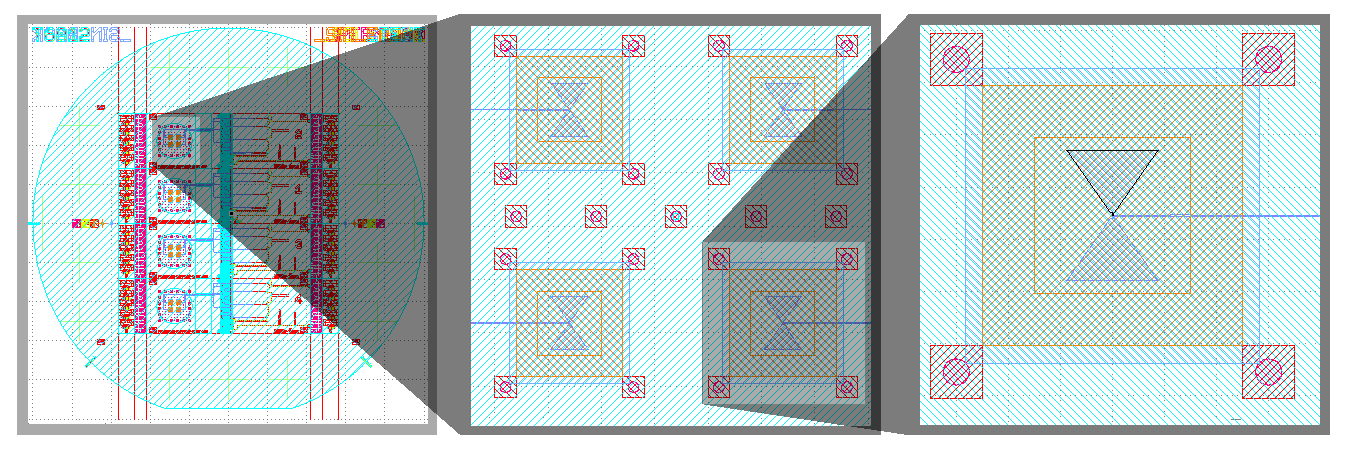
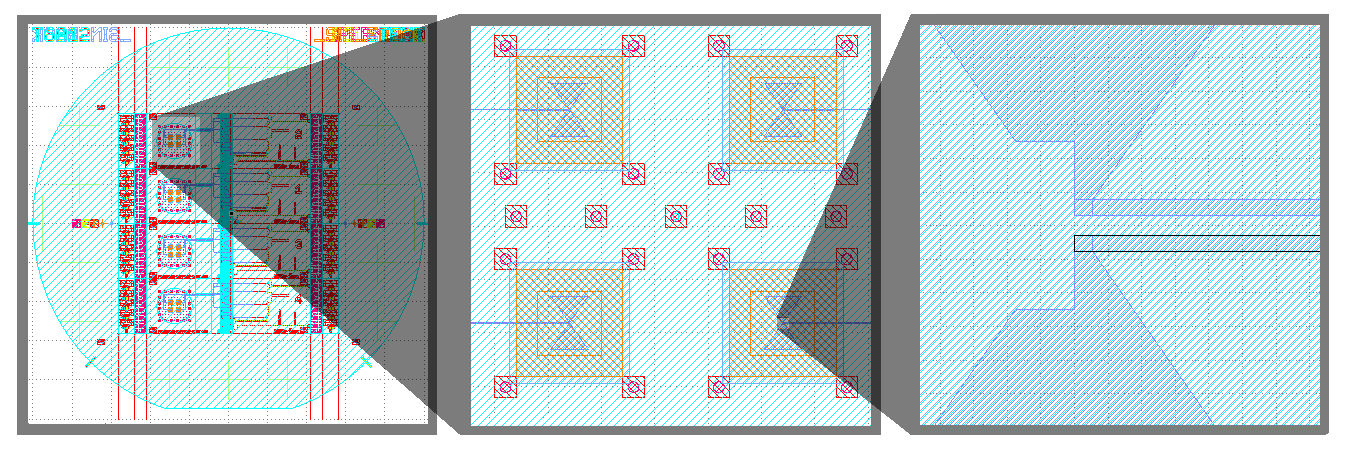
misc paper improvements

Changed region(s): [[0.4978, 0.0311, 0.9956, 0.9644], [0.0, 0.0311, 0.3422, 0.9644]]

diff --git a/paper/paper.md b/paper/paper.md
@@ -48,7 +48,9 @@ bibliography: paper.bib
 \newcommand{\proxy}{\texttt{proxy}}
 \newcommand{\tifuun}{TIFUUN}
 
+<!--
 \Huge THIS IS A VERY EARLY DRAFT IM JUST WRITING WHAT POPS INTO MY HEAD \normalsize
+-->
 
 <!-- REQUIRED SECTION!! -->
 # Summary
@@ -70,7 +72,7 @@ including rectangles, circles, and arcs.
 Users can combine these primitives into individual
 components,
 such as bandpass filters [@alejandro], waveguides,
-and kinetic inductance detectors [@mkids-day-actual].
+and KIDs (kinetic inductance detectors) [@mkids-day-actual].
 These components can then be assembled into a
 complete mask file for an astronomical instrument.
 This modular approach allows for
@@ -86,7 +88,7 @@ instruments.
     section where this can be elaborated
     (i think such a section would be iirelevant/too technical)
 -->
-\raimad designs can be exported as a \texttt{.cif}
+\raimad designs can be exported as a CIF
 (Caltech Intermediate Form)
 file [@cif],
 a format for storing mask files.
@@ -218,8 +220,8 @@ of preliminary chip designs
 for \tifuun,
 including a novel type of KIDs [@leonposter]
 and a testbed for measuring transmission line losses [@pienthesis]
-(pictured in Figure 1).
-These publications have not only established \raimad
+pictured in \autoref{fig:recursive}.
+These works have not only established \raimad
 as a versatile mask file creation tool,
 but have also enriched the \raidex
 component library with new devices.
@@ -227,7 +229,7 @@ Moreover,
 recent developments in
 fabrication techniques [@leonfab]
 and high-efficiency filterbank designs [@louisbank]
-signal success for the \tifuun project as a whole,
+signal advances for the \tifuun project as a whole,
 wherein \raimad will figure as the central
 mask file design tool.
 
@@ -244,9 +246,12 @@ mask file design tool.
     -->
 
 ![
-Pictures of the chip designed in \raimad by @pienthesis.
-Left to right: entire chip, an arrangement of four antennas,
-a single antenna.
+An example of a chip designed in \raimad{} [@pienthesis]
+and rendered in KLayout.
+Left: the entire chip on a 10cm wafer;
+centre: an arrangement of four antennas, each one approximately 1mm across;
+right: 2µm wide microstrips connected to each half of an antenna.
+\label{fig:recursive}
 ](img/recursive-final.png)
 
 <!--
